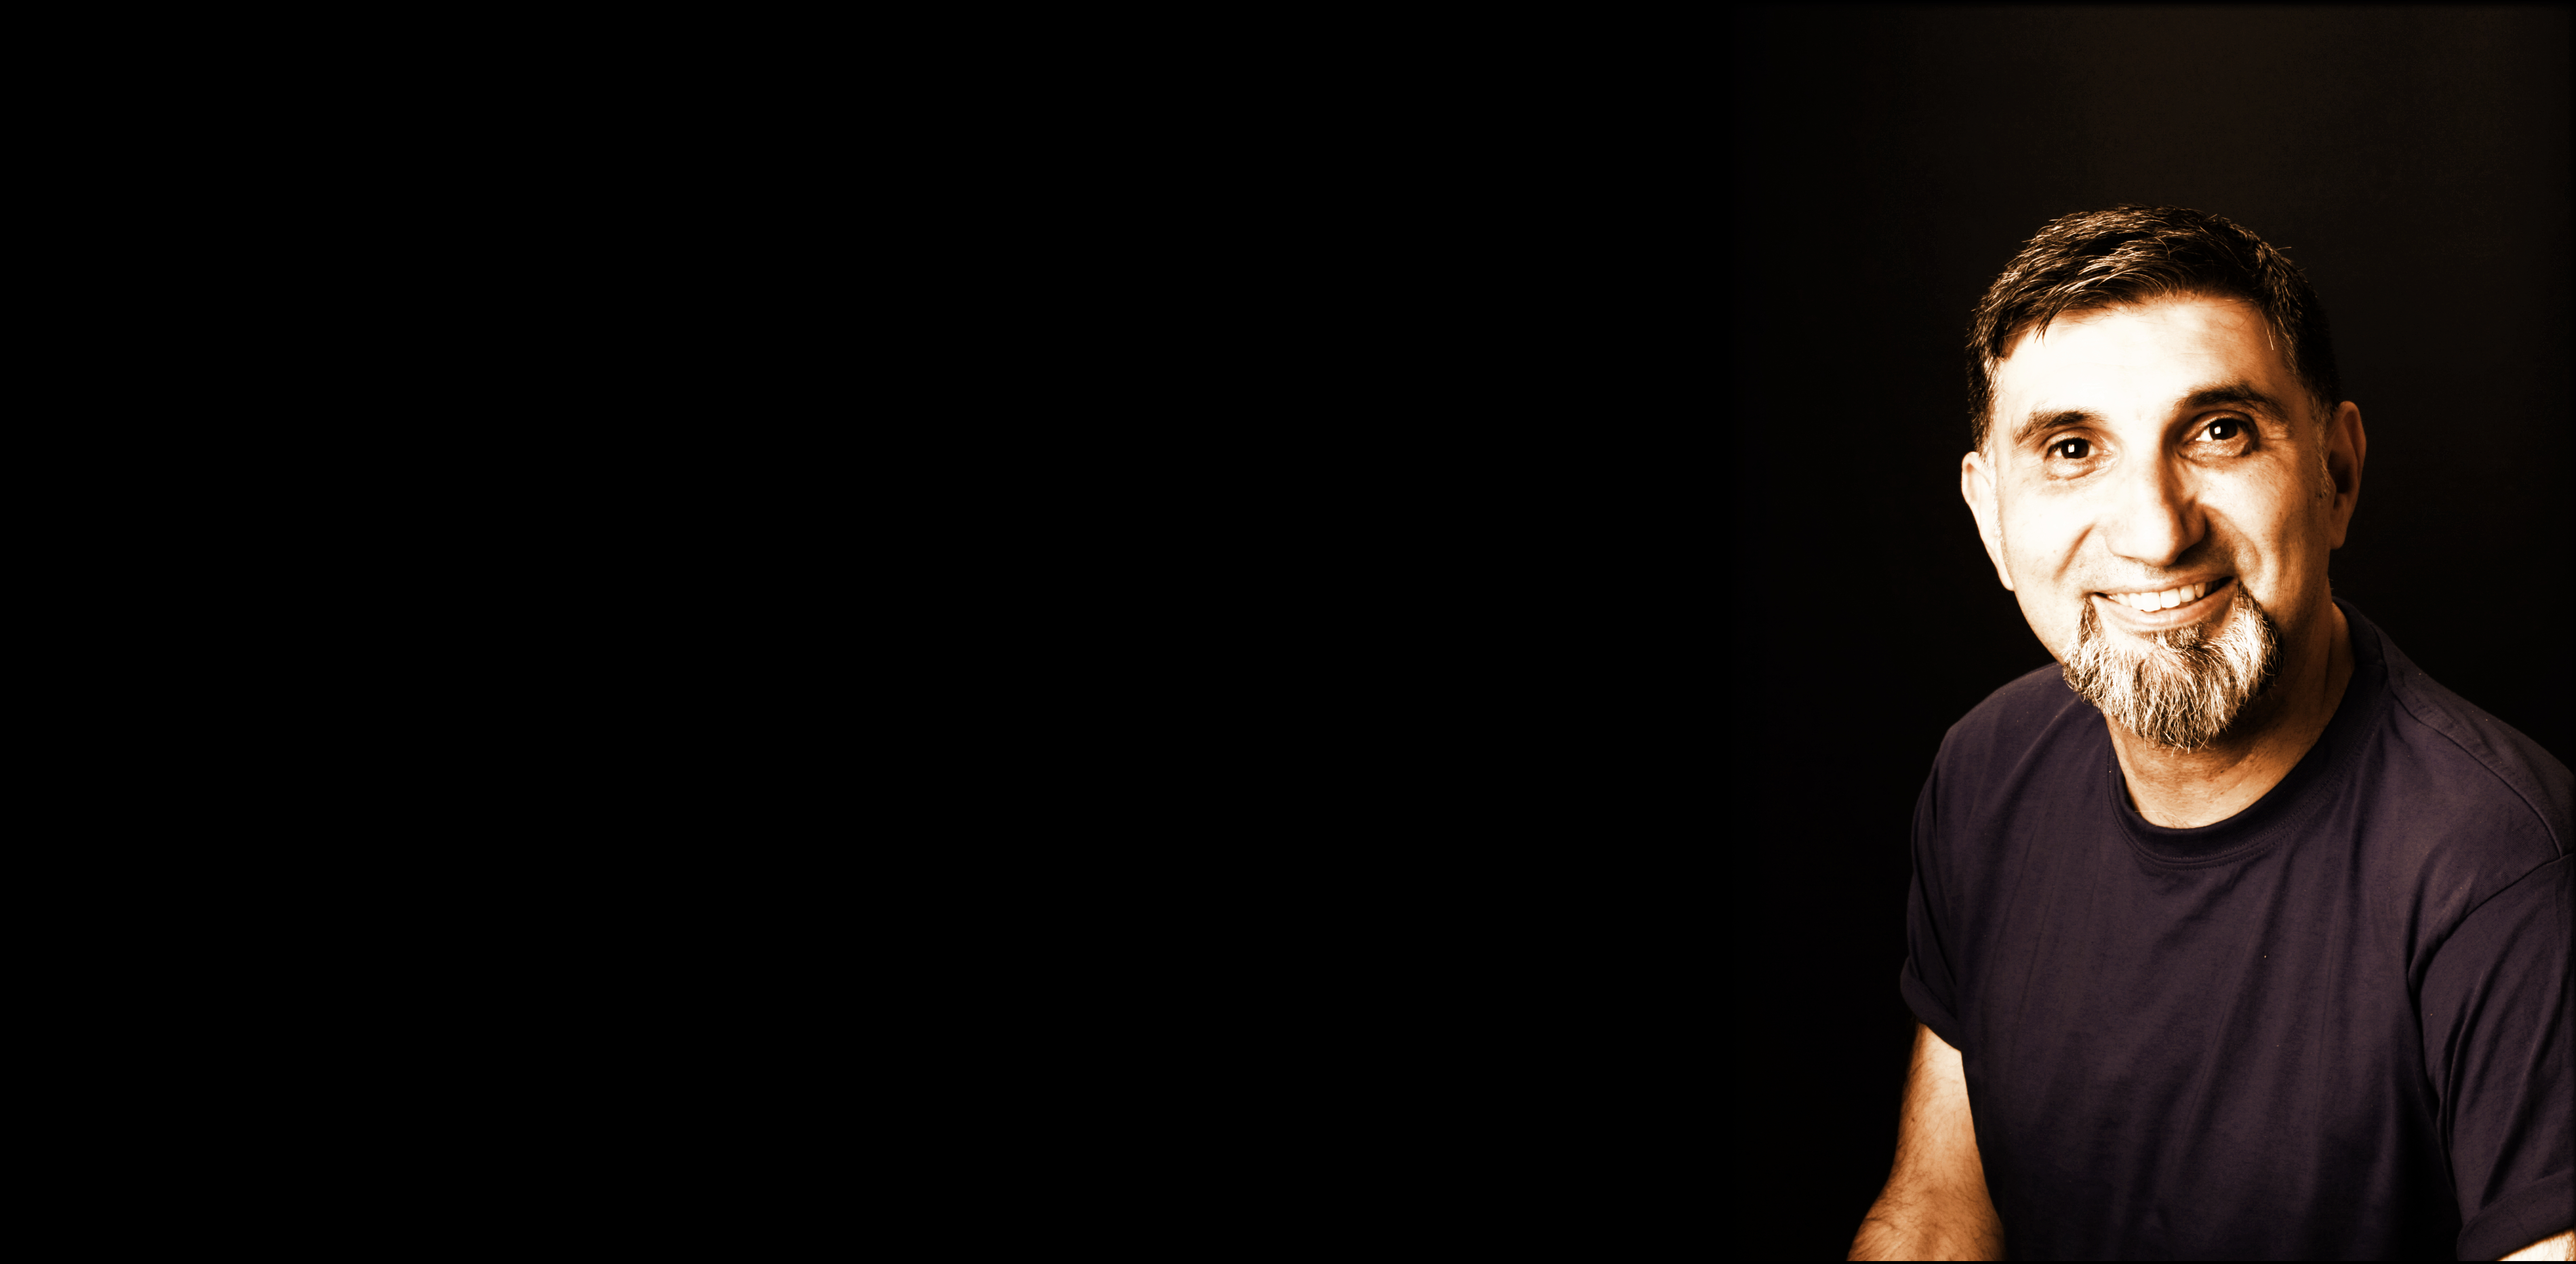
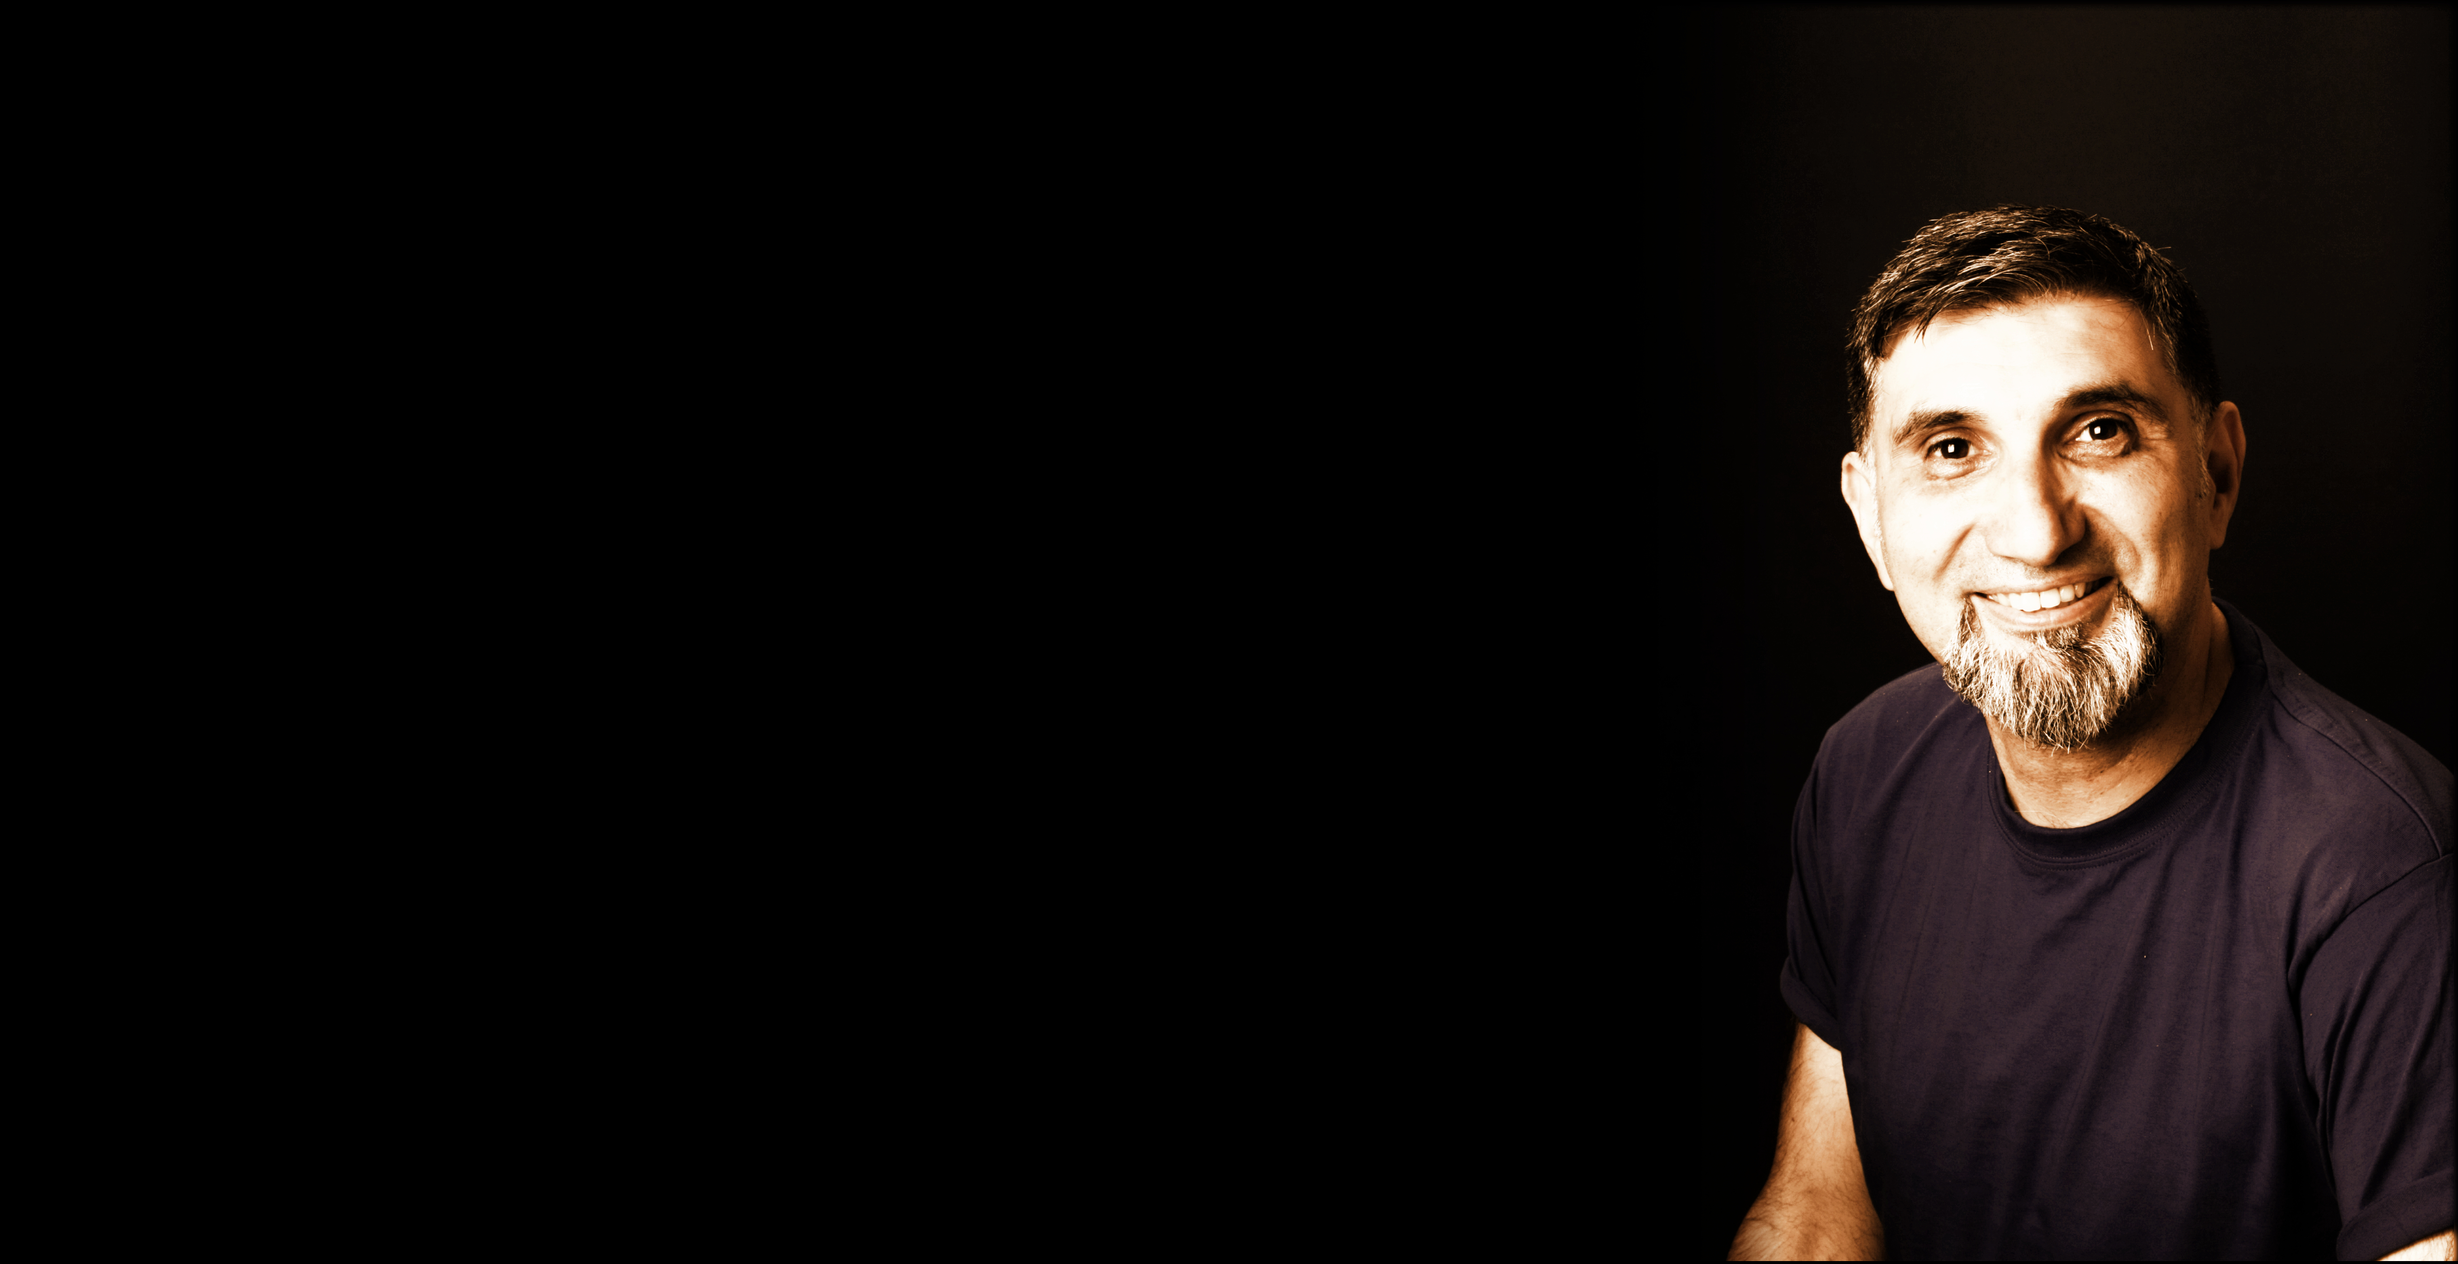
fix style profile decktop

diff --git a/index.html b/index.html
@@ -74,48 +74,58 @@
 
     <!-- ================================================== Header Start==================================== -->
     <div class="container-fluid p-0 header" id="02">
-      <div class="row m-0 header-holder">
+      <div class="row m-0 header-holder pb-5">
         <div
-          class="col-12 col-md-12bord-two d-flex align-items-center justify-content-center p-0 border border-danger"
+          class="col-12 col-md-12bord-two d-flex align-items-center justify-content-center p-0"
         >
           <div
-            class="container-fluid bord-two-holder d-flex align-items-end align-items-md-center justify-content-end justify-content-md-center pb-md-5 pb-md-4 p-xl-5"
+            class="container-fluid bord-two-holder d-flex align-items-end align-items-md-center justify-content-end justify-content-md-center"
             id="background"
           >
             <div
-              class="row d-flex align-items-end align-items-md-center align-items-xl-start pb-md-5 pb-md-1 ps-xl-5"
+              class="row d-flex align-items-center justify-content-start "
             >
-              <div class="col-2 col-md-1 col-xl-12 border">
-                <h2 class="Profile_text_name p-2 yellow">
-                  Hallo, <br />
-                  Ich bin Tihomir.
-                </h2>
-              </div>
-              <div class="col-9 col-md-4 col-lg-4 col-xl-8 d-flex border">
+              <div class="col-2 "></div>
+              <div class="col-7 ">
                 <div class="row">
-                  <div class="col">    <h2 class="pb-4 pb-md-0 ps-xl-4 font-text text-white">
-                  Meine Freunde nennen mich Tiho. <br />Meine Leidenschaft liegt
-                  in der Erstellung von beeindruckenden und innovativen
-                  visuellen Designs. <br />
-                </h2></div>
-                  <div class="col">      <h2 class="pb-4 pb-md-0 ps-xl-4 font-text text-white">
-                  Im Bereich Frontend-Entwicklung verfüge ich über umfangreiche
-                  Kenntnisse. Es erfüllt mich mit Freude, Konzepte zu entwerfen
-                  und sie in die Realität umzusetzen. Ich lege großen Wert auf
-                  beeindruckende Layouts und sauberen Code.
-                </h2></div>
-                  <div class="col">  <h2 class="pb-4 pb-md-0 ps-xl-4 font-text text-white">
-                  Ich bin eine positive Person, hoch motiviert und immer bereit,
-                  Neues zu lernen. Mein Ziel ist es, positive Beziehungen
-                  aufzubauen und kreative Lösungen für komplexe Probleme zu
-                  finden. Ich hege eine große Leidenschaft für Design und
-                  Frontend-Entwicklung und zeichne mich durch einen ausgeprägten
-                  Teamgeist aus.
-                </h2></div>
+                  <div class="col-xl-12 pb-5 ">
+ 
+                    <h2 class="Profile_text_name  text-uppercase orange">
+                      Hallo, <br />
+                      Ich bin Tihomir.
+                    </h2>
+                  </div>
+                  <div class="col-12 d-flex ">
+                    <div class="row">
+                      <div class="col-3">
+                        <h2 class="font-text text-white">
+                          Meine Freunde nennen mich Tiho. <br />Meine
+                          Leidenschaft liegt in der Erstellung von
+                          beeindruckenden und innovativen visuellen Designs.
+                        </h2>
+                      </div>
+                      <div class="col-3">
+                        <h2 class="font-text text-white">
+                          Im Bereich Frontend-Entwicklung verfüge ich über
+                          umfangreiche Kenntnisse. Es erfüllt mich mit Freude,
+                          Konzepte zu entwerfen und sie in die Realität
+                          umzusetzen. Ich lege großen Wert auf beeindruckende
+                          Layouts und sauberen Code.
+                        </h2>
+                      </div>
+                      <div class="col-3">
+                        <h2 class="font-text text-white">
+                          Ich bin eine positive Person, hoch motiviert und immer
+                          bereit, Neues zu lernen. Mein Ziel ist es, positive
+                          Beziehungen aufzubauen und kreative Lösungen für
+                          komplexe Probleme zu finden. Ich hege eine große
+                          Leidenschaft für Design und Frontend-Entwicklung und
+                          zeichne mich durch einen ausgeprägten Teamgeist aus.
+                        </h2>
+                      </div>
+                    </div>
+                  </div>
                 </div>
-            
-          
-           
               </div>
             </div>
           </div>

diff --git a/css/styleHeader.css b/css/styleHeader.css
@@ -6,7 +6,7 @@
 }
 .header {
   height: 100vh;
-width: 100vw;
+/* width: 100vw; */
 
 
   /* transition: all 3s ease-out; */
@@ -15,10 +15,11 @@ width: 100vw;
 
 }
 .header-holder {
-  height: 100%;
+  height: 109%;
    background-image: url(/img/TPColour.jpg);
   background-repeat: no-repeat;
-  background-position: left;
+  /* background-position: left; */
+     background-position: -2vw -3vh;
   background-size: cover;
   /* background-color: var(--main-bg-color); */
 
@@ -45,11 +46,10 @@ width: 100vw;
 }
 
 .Profile_text_name {
-  /* writing-mode: vertical-rl;
-  text-orientation: upright; */
-  color: var(--main-bg-color);
-  font-size: 2.2vh;
-  letter-spacing: -0.1vw;
+
+  /* color: var(--main-bg-color); */
+  font-size: 64px;
+  /* letter-spacing: -0.1vw; */
   /* opacity: 0.6; */
 }
 

diff --git a/style.css b/style.css
@@ -104,10 +104,10 @@ html {
 /* ==================== Colours ============================================*/
 
 .orange {
-  color: #ed8e35;
+  color: #FF6936;
 }
 .yellow {
-  color: #F4B600;
+  color: hsl(15, 100%, 61%);
 }
 .white {
   color: rgb(255, 255, 255, 0.7);
